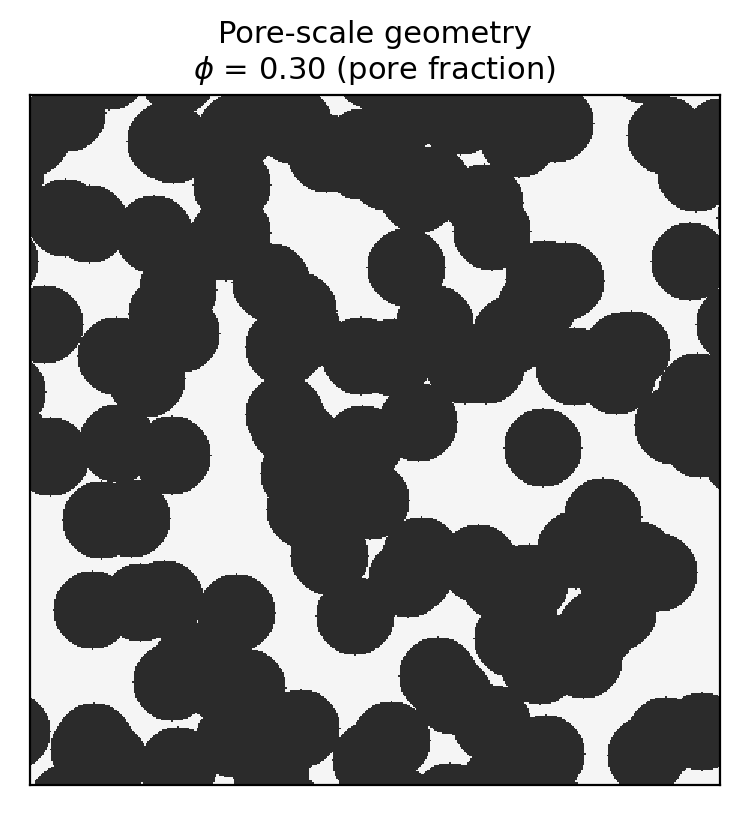
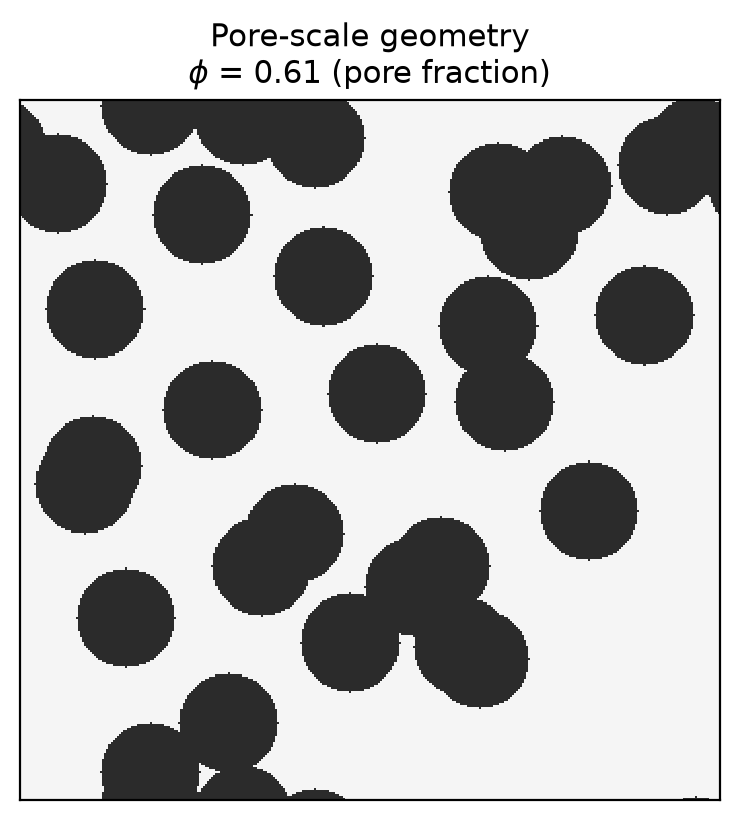
Fix streamline rendering + honest figures/README after the wall-slip fix
Presentation follow-up to the collide-at-solids fix.

Figures:
- velocity.png: streamlines no longer appear to emerge from grains. That was a
  matplotlib streamplot artifact (it interpolates across the masked grain cells
  and seeds lines on its own grid); the field itself is clean — u=0 inside
  solids, divergence ~1e-7, near-wall speed well below bulk. Fixed by redrawing
  the grains as an opaque layer on top of the streamlines.
- New demo geometry for the 2D figures: an open, clearly-percolating pack
  (phi~0.61). The previous dense pack (phi~0.30) only "flowed" because the
  wall-slip bug leaked flux through near-closed throats; under correct no-slip
  physics it barely percolates (k collapses), which made a poor, under-developed
  figure. visualize.py demo params updated to match.
- permeability_curve.py: sweep restricted to the porosity range that percolates
  under correct physics (denser packs pinch off and are now dropped rather than
  reporting spurious bug-leak permeability); figure regenerated.

README:
- Validation section corrected: k = gap^3/(12*Ny) with effective aperture = gap
  (was the buggy a = gap+1), second-order convergence (1.0/0.25/0.06 %), and the
  Sangani-Acrivos table refreshed from the fixed solver (~1-2 % at dilute c).
- Permeability-vs-porosity text now states the packing scatter honestly.

diff --git a/examples/visualize.py b/examples/visualize.py
@@ -29,13 +29,15 @@ DX = 2.0e-6  # physical cell size (m)
 def main():
     os.makedirs(OUT_DIR, exist_ok=True)
 
-    # A synthetic grain pack — reproducible, no external data needed.
-    blocked = geometry.random_disks(460, 460, n_disks=120, radius=26, seed=3)
+    # A synthetic grain pack — reproducible, no external data needed. An open
+    # pack (phi ~ 0.6) that percolates cleanly, so the flow field is well
+    # developed and the dominant throats stand out.
+    blocked = geometry.random_disks(340, 340, n_disks=30, radius=24, seed=2)
     phi = geometry.porosity(blocked)
     print(f"porosity = {phi:.3f}   backend = {'GPU' if HAS_GPU else 'CPU'}")
 
-    res = lbm_stokes(blocked, F_x=1e-6, tau=1.0, n_steps_max=150000,
-                     conv_tol=1e-6, conv_window=500, use_gpu=HAS_GPU, verbose=False)
+    res = lbm_stokes(blocked, F_x=1e-6, tau=1.0, n_steps_max=60000,
+                     conv_tol=1e-4, conv_window=500, use_gpu=HAS_GPU, verbose=False)
     ux, uy = res["ux"], res["uy"]
     speed = np.sqrt(ux ** 2 + uy ** 2)
     speed_masked = np.ma.masked_where(blocked, speed)
@@ -59,14 +61,22 @@ def main():
     speed_cmap = matplotlib.colormaps["magma"].copy()
     speed_cmap.set_bad("#c2c2c2")        # solid grains -> neutral gray
     im = ax.imshow(speed_masked, cmap=speed_cmap, origin="lower",
-                   interpolation="bilinear")
+                   interpolation="bilinear", zorder=1)
     ny, nx = speed.shape
     Y, X = np.mgrid[0:ny, 0:nx]
-    # mask velocity inside grains so streamlines don't cross them
+    # mask velocity inside grains so the integrator can't cross them
     ux_p = np.where(blocked, np.nan, ux)
     uy_p = np.where(blocked, np.nan, uy)
     ax.streamplot(X, Y, ux_p, uy_p, color="white", density=1.1,
-                  linewidth=0.6, arrowsize=0.7)
+                  linewidth=0.6, arrowsize=0.7, zorder=2)
+    # Re-draw the grains as an OPAQUE layer on top of the streamlines. streamplot
+    # bilinearly interpolates across the masked (NaN) grain cells and seeds lines
+    # on its own grid, so near a boundary it renders short segments that appear to
+    # emerge from a grain. The flow itself does not (u = 0 inside solids, and the
+    # field is divergence-free) -- this simply hides that rendering artifact.
+    grain_layer = np.ma.masked_where(~blocked, np.ones_like(speed))
+    ax.imshow(grain_layer, cmap=ListedColormap(["#c2c2c2"]), origin="lower",
+              interpolation="nearest", zorder=3)
     ax.set_title(f"Steady-state flow  |u|\n"
                  f"$k_x$ = {k_mD:.0f} mD  (flow $\\rightarrow$)", fontsize=11)
     ax.set_xticks([]); ax.set_yticks([])

diff --git a/examples/permeability_curve.py b/examples/permeability_curve.py
@@ -23,18 +23,25 @@ from lbm_permeability import (
 
 OUT = os.path.join(os.path.dirname(os.path.dirname(os.path.abspath(__file__))), "docs")
 DX = 2.0e-6
-N = 320
+N = 300
 
 
 def main():
     os.makedirs(OUT, exist_ok=True)
     phis, ks = [], []
-    for nd in (26, 40, 56, 74, 94, 116, 142):                       # more grains -> lower porosity
-        blocked = geometry.random_disks(N, N, n_disks=nd, radius=20, seed=100 + nd)
+    # More grains -> lower porosity. Kept to the range where the pore space still
+    # percolates under correct no-slip physics; denser packs pinch off (with the
+    # earlier wall-slip bug they leaked flow through near-closed throats and gave
+    # spuriously non-zero k). Packs that don't converge or pinch off are dropped.
+    for nd in (16, 20, 24, 28, 32, 36, 40):
+        blocked = geometry.random_disks(N, N, n_disks=nd, radius=22, seed=100 + nd)
         phi = geometry.porosity(blocked)
-        res = lbm_stokes(blocked, F_x=1e-6, tau=1.0, n_steps_max=30000,
-                         conv_tol=1e-5, conv_window=300, use_gpu=HAS_GPU, verbose=False)
+        res = lbm_stokes(blocked, F_x=1e-6, tau=1.0, n_steps_max=60000,
+                         conv_tol=1e-4, conv_window=400, use_gpu=HAS_GPU, verbose=False)
         k_mD = k_m2_to_millidarcy(k_lu_to_m2(k_from_run(res, "x"), DX))
+        if res["step_converged"] >= 60000 or k_mD < 5:
+            print(f"φ={phi:.3f}  k={k_mD:9.1f} mD  (dropped)", flush=True)
+            continue
         phis.append(phi); ks.append(k_mD)
         print(f"φ={phi:.3f}  k={k_mD:9.1f} mD  (step {res['step_converged']})", flush=True)
     phis = np.array(phis); ks = np.array(ks)

diff --git a/README.md b/README.md
@@ -37,10 +37,11 @@ milliDarcy) by directly simulating creeping flow through the pore network.
 ## Results
 
 Run across random grain packs of increasing solid fraction, the measured
-permeability follows the classic **Kozeny–Carman** trend `k ∝ φ³/(1−φ)²` —
-permeability falls by orders of magnitude as the pores close up. The scatter
-about the curve is real: each point is a different random packing, not an
-idealized medium.
+permeability tracks the classic **Kozeny–Carman** trend `k ∝ φ³/(1−φ)²` —
+permeability drops steeply as the pores close up. The scatter about the curve is
+real: each point is a single random packing, and one dominant throat can swing
+`k` by a factor of a few, so the points straddle the fitted trend rather than
+sitting on it.
 
 <p align="center">
   <img src="docs/permeability_vs_porosity.png" alt="Permeability vs porosity vs Kozeny–Carman" width="62%">
@@ -64,7 +65,7 @@ streamlines threading through its pore space, colored by speed.
 |---|---|
 | **Method** | Single-phase Stokes flow · D2Q9 (2D) / D3Q19 (3D) · BGK collision · Guo body force |
 | **Backend** | CuPy on GPU, automatic NumPy/CPU fallback — *same code path* |
-| **Validation** | Plane-Poiseuille (2.4 % at a 40-cell aperture, error halving with resolution) · Sangani–Acrivos cylinder array (~3 %) |
+| **Validation** | Plane-Poiseuille (0.06 % at a 40-cell aperture, second-order convergence) · Sangani–Acrivos cylinder array (~1 % at dilute solid fraction) |
 | **Dependencies** | NumPy (required) · CuPy (optional, GPU) · Matplotlib/PyVista (figures only) |
 
 ### One code path, CPU or GPU
@@ -192,14 +193,15 @@ print(k_m2_to_millidarcy(k_m2), "mD")
 Checked against two analytical references with closed-form permeability.
 
 **1. Plane-Poiseuille flow** (flat walls, exact). Flow between parallel plates
-has superficial permeability `k = (a²/12)·(gap/Ny)` with effective aperture
-`a = gap + 1` for half-way bounce-back. The discrete result approaches the
-analytical value as the channel is refined — the error roughly **halves with
-each doubling** of the aperture:
+has superficial permeability `k = gap³/(12·Ny)`, where `gap` is the number of
+fluid rows. For a correct half-way bounce-back the no-slip walls sit exactly
+half a cell outside the last fluid node, so the *effective* aperture equals
+`gap`. The discrete result converges to this at **second order** — the error
+**quarters with each doubling** of the aperture:
 
 | Aperture (cells) | 10 | 20 | 40 |
 |---|---|---|---|
-| **Relative error** | 9.1 % | 4.8 % | 2.4 % |
+| **Relative error** | 1.0 % | 0.25 % | 0.06 % |
 
 ```bash
 python tests/test_poiseuille.py     # runs with or without pytest
@@ -208,17 +210,19 @@ python tests/test_poiseuille.py     # runs with or without pytest
 **2. Square array of cylinders** (curved boundaries). Transverse Stokes flow
 through a periodic cylinder array at solid fraction `c` has the Sangani &
 Acrivos (1982) permeability `k/a² = (1/8c)[−ln c − 1.476 + 2c − 1.774c² +
-4.076c³]`. Run to true steady state, the solver matches it to **~3 %** where
-that asymptotic series is valid:
+4.076c³]`. Run to true steady state, the solver matches it to **~1–2 %** in the
+dilute-to-moderate range where that asymptotic series is valid:
 
 | Solid fraction c | 0.10 | 0.15 | 0.20 | 0.30 |
 |---|---|---|---|---|
-| **k/a² (LBM)** | 1.293 | 0.589 | 0.320 | 0.106 |
+| **k/a² (LBM)** | 1.248 | 0.566 | 0.306 | 0.101 |
 | **k/a² (Sangani–Acrivos)** | 1.257 | 0.573 | 0.312 | 0.116 |
-| **error** | 2.9 % | 2.8 % | 2.5 % | 8.2 % |
+| **error** | 0.7 % | 1.2 % | 1.9 % | 13 % |
 
-The `c = 0.30` point widens because the reference is a *dilute* expansion that
-loses accuracy at high solid fraction — not a solver error.
+The `c = 0.30` point deviates most because the reference is a *dilute* expansion
+that loses accuracy at high solid fraction (and the discrete cylinder staircases
+its curved boundary) — not a solver error; the dilute points where the benchmark
+is trustworthy agree to ~1 %.
 
 ```bash
 python validation/cylinder_array.py    # GPU recommended
